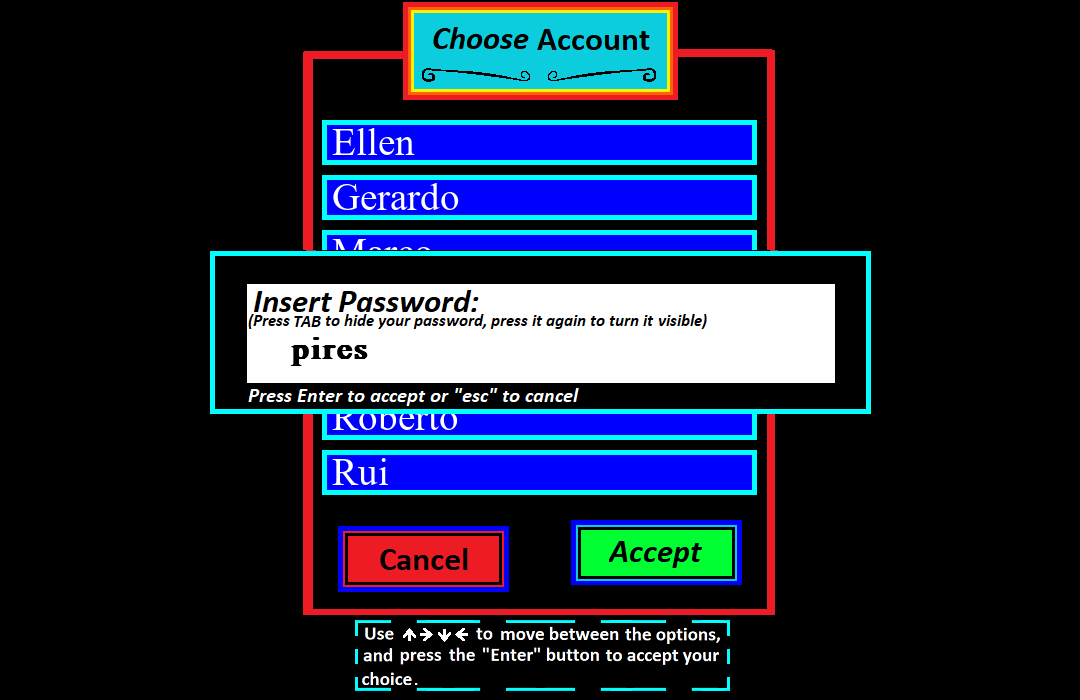
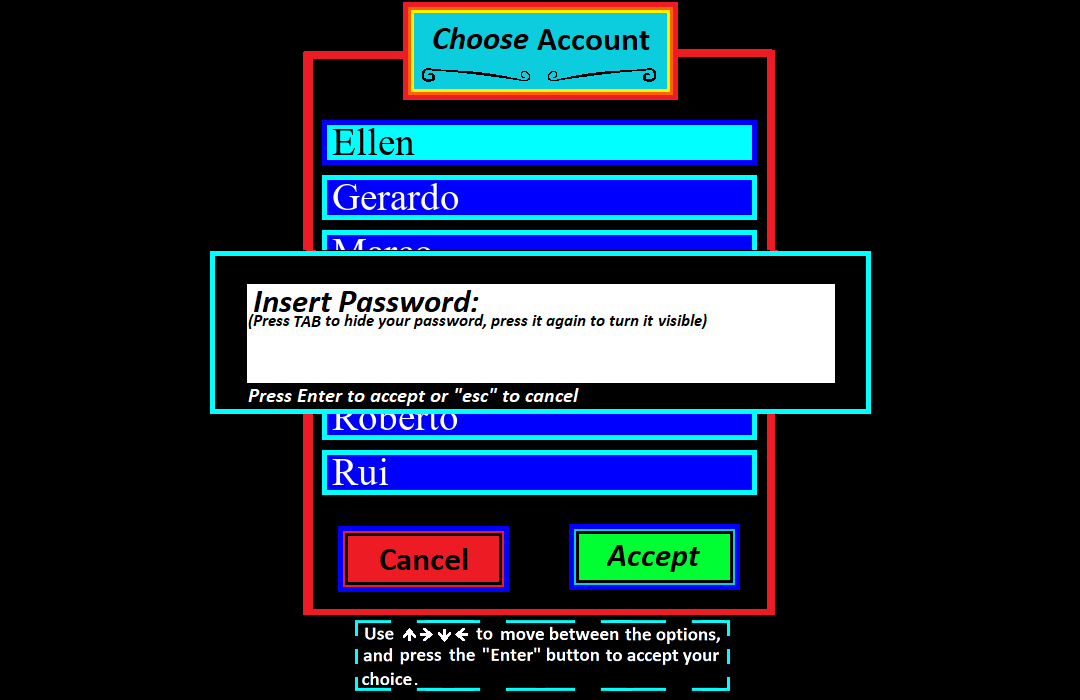
debugging

Changed region(s): [[0.275, 0.15, 0.7028, 0.24], [0.5194, 0.72, 0.7028, 0.84], [0.275, 0.48, 0.3361, 0.54]]

diff --git a/menu_classes.py b/menu_classes.py
@@ -626,7 +626,8 @@ class Enter_Password:
 
     def refresh(self):
         self.screen.blit(self.image, (210, 250))
-        pygame.draw.rect(self.screen, (0, 0, 0), (550, 500, 213, 105), 20, True)
+        if not self.change:  # verifies if this class was called for login purposes. In this case it deletes extra stuff
+            self.screen.blit(pygame.image.load("images/menu/interfaces/prov_image/button.png"), (550, 500))
         f.write_password(self.screen, self.password_list, self.hide)
         pygame.display.update()
 

diff --git a/functions.py b/functions.py
@@ -115,9 +115,9 @@ def list_users():
         users = [x[0].split("\\") for x in walk("saves")][1:]
         users = [u[1] for u in users]
     elif os_name().startswith("linux"):
-        users = [x[0].split("\\") for x in walk("saves")][1:]
+        users = list(walk("saves"))[0][1]
     elif os_name().startswith("darwin"):
-        users = [x[0].split("\\") for x in walk("saves")][1:]
+        users = list(walk("saves"))[0][1]
     else:
         exit("ERROR!!! Unsupported OS")
     return users
